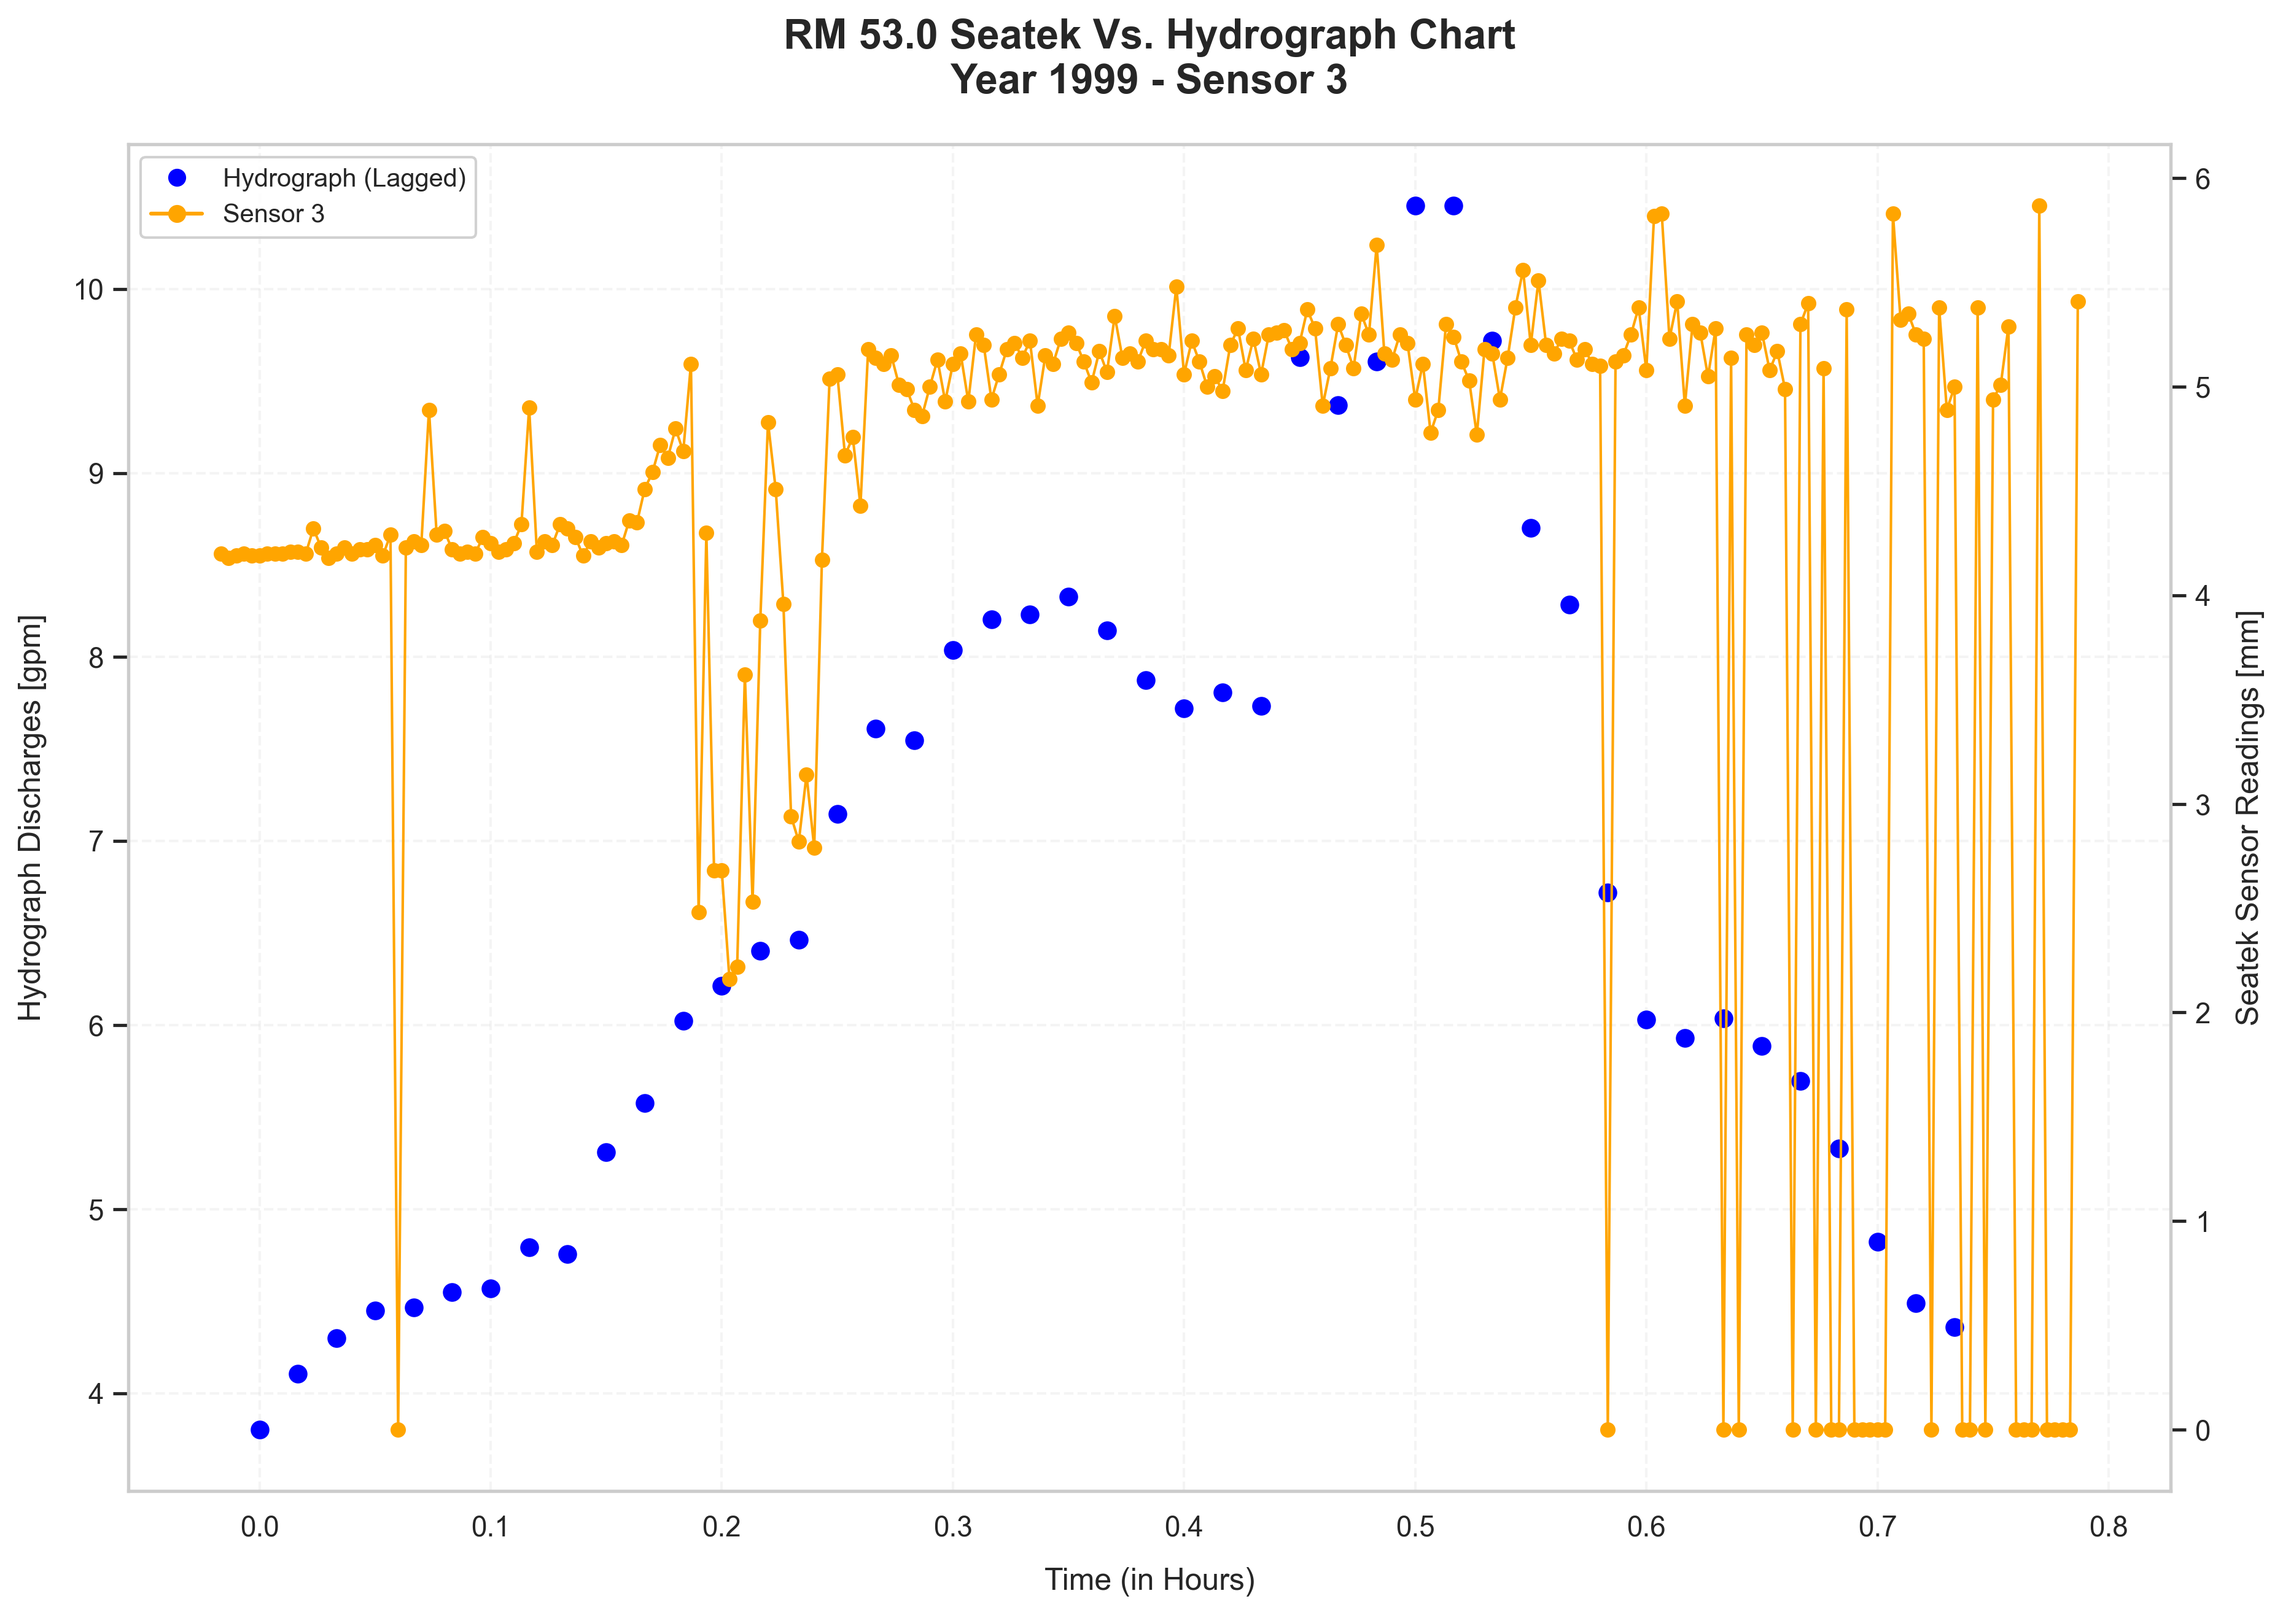
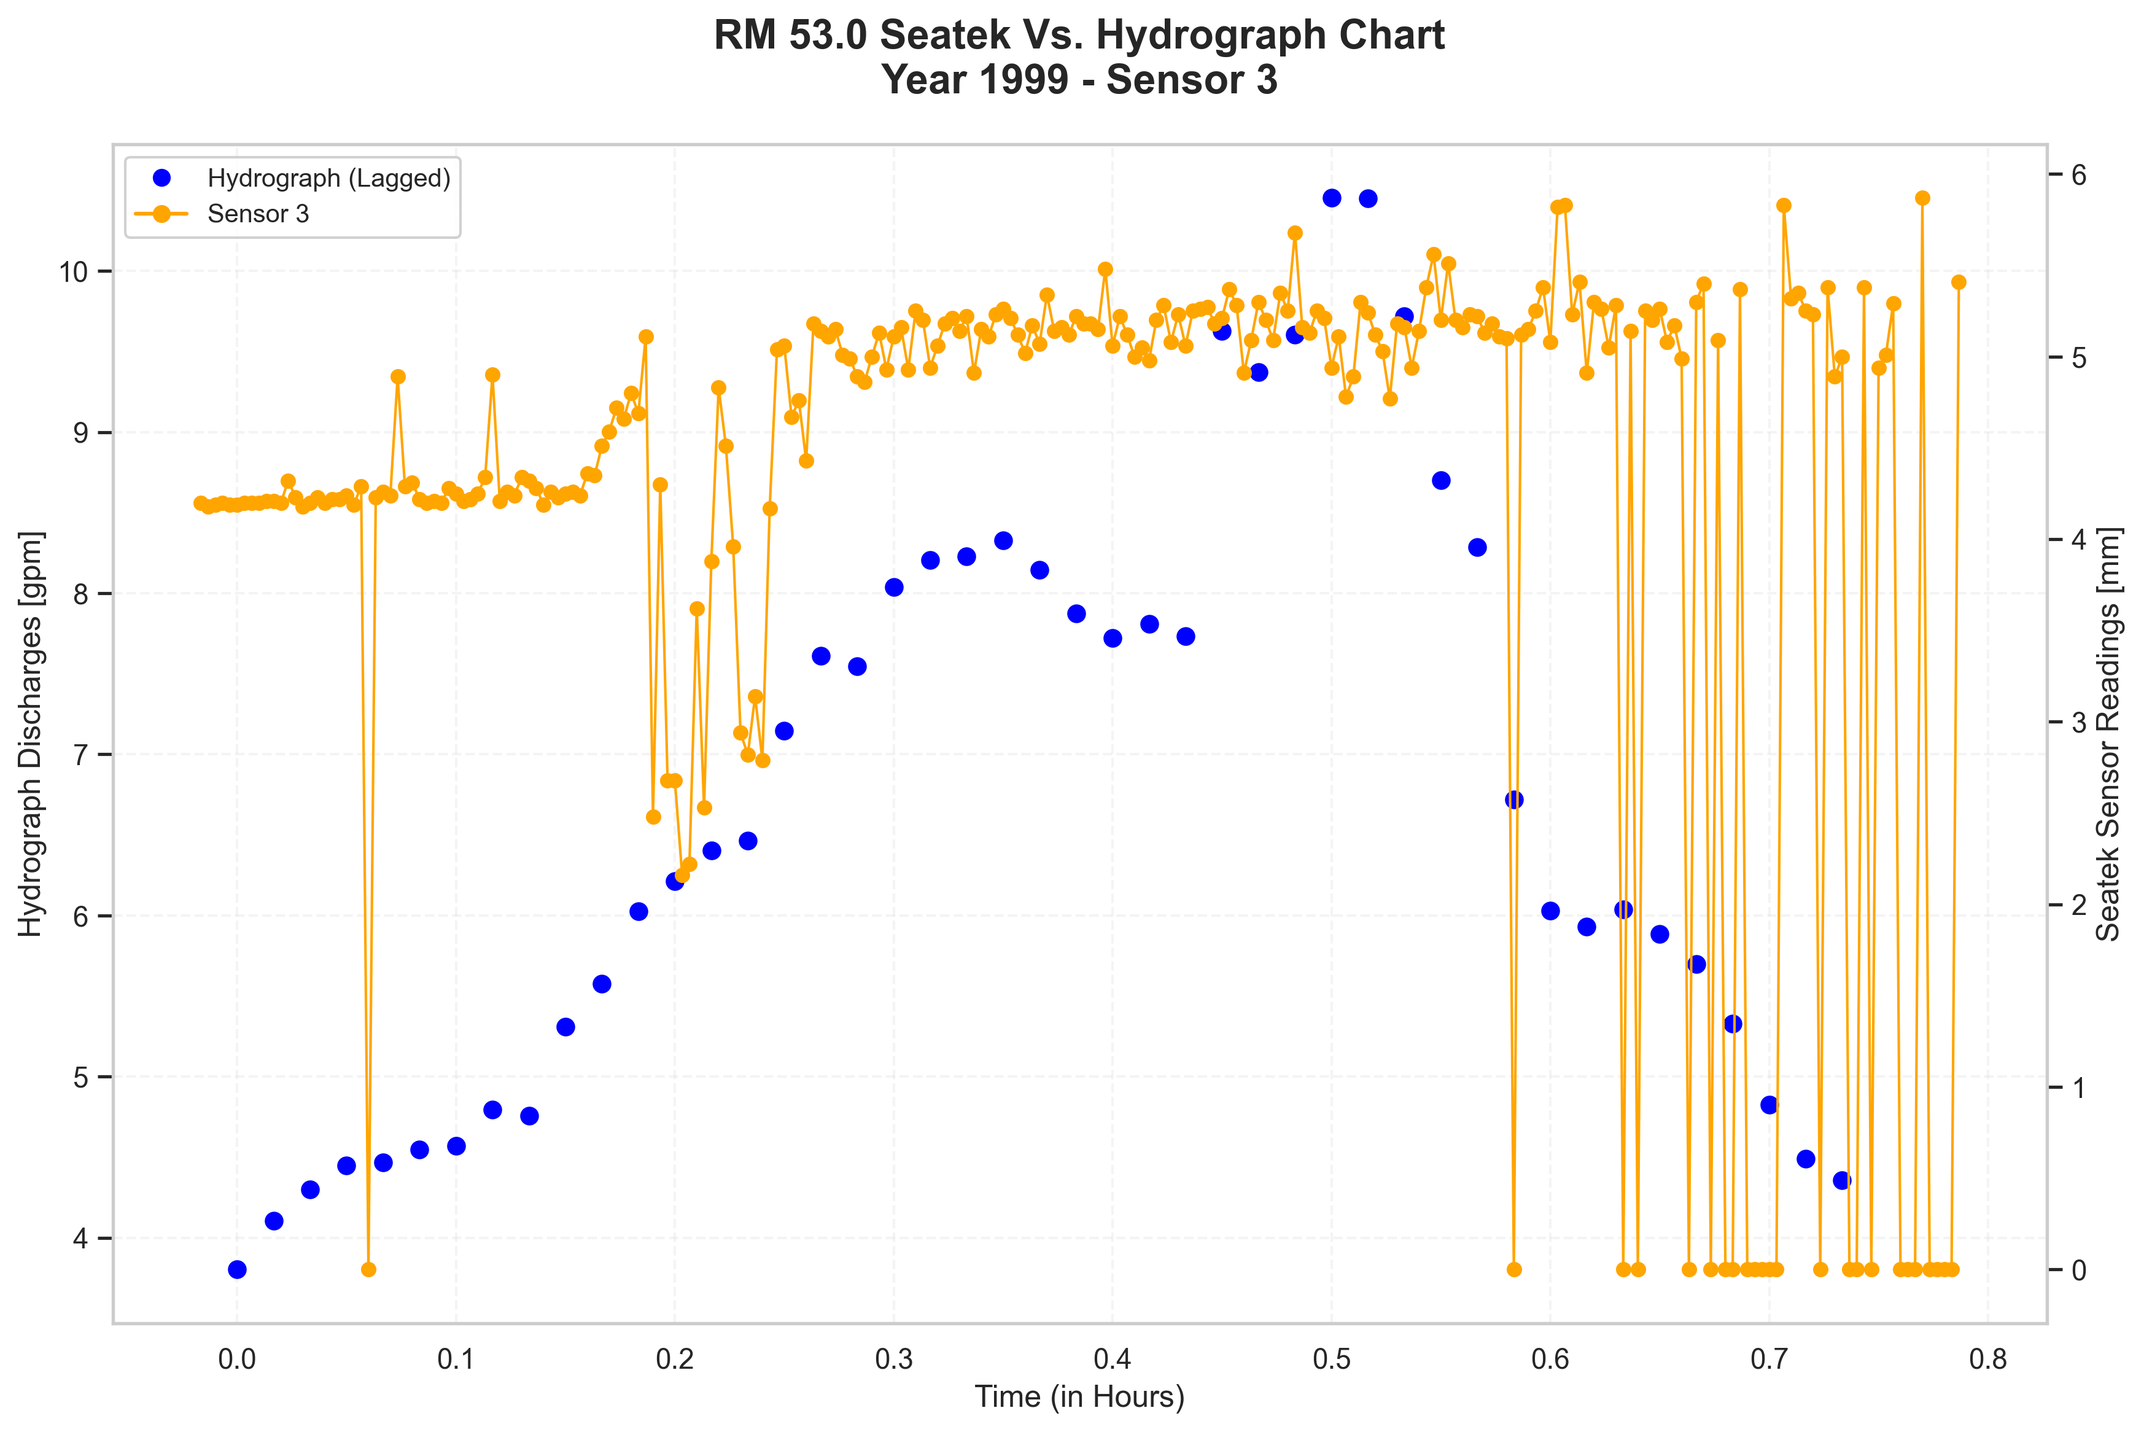
Refactor and modularize visualizer script
- Extracted year data filtering and validation into separate functions.
- Modularized plot setup, hydrograph plotting, sensor data plotting, and plot finalization.
- Improved readability and maintainability of the code.

diff --git a/scripts/updated_visualizer.py b/scripts/updated_visualizer.py
@@ -10,105 +10,94 @@ Functions:
         Main function that loads the summary data, iterates through each row, and generates plots for each river mile (RM) and year range specified in the summary.
 
 Usage:
-    Run the script directly to generate the charts.
+    Run the script directly to generate the chart
+    
+    # Import necessary libraries
+import os
+import logging
+from pathlib import Path
+import matplotlib.pyplot as plt
+import seaborn as sns
+import pandas as pd
+from matplotlib.lines import Line2Ds.
 """
 
+
 import os
+import logging
+from pathlib import Path
 import matplotlib.pyplot as plt
-import pandas as pd
 import seaborn as sns
+import pandas as pd
 from matplotlib.lines import Line2D
 
 def process_rm_data(rm_data, rm, year, sensor):
-	# Filter data for the specific year
-	year_data = rm_data[rm_data["Year"] == year].copy()
-	
-	if year_data.empty:
-		print(f"No data for RM {rm}, Year {year}. Skipping chart generation.")
-		return
-	
-	if not any(pd.notna(year_data["Hydrograph_(Lagged)"])) and not any(pd.notna(year_data[sensor])):
-		print(f"No valid hydrograph or sensor data for RM {rm}, Year {year}. Skipping.")
-		return
-	
-	# Set style and figure size (reduced width)
-	sns.set_theme(style="whitegrid")
-	fig, ax1 = plt.subplots(figsize=(14, 8))  # Reduced width to minimize white space
-	fig.patch.set_facecolor('white')  # White background
-	
-	# Use tight layout to minimize unnecessary padding
-	plt.tight_layout(rect=(0, 0, 0.85, 1))  # Adjust the right side for legend without excessive white space
-	
-	time_hours = year_data["Time_(Seconds)"] / 3600
-	
-	# Plot hydrograph data (blue points)
-	mask_hydro = pd.notna(year_data["Hydrograph_(Lagged)"])
-	
-	if any(mask_hydro):
-		ax1.scatter(time_hours[mask_hydro],
-		            year_data["Hydrograph_(Lagged)"][mask_hydro],
-		            color='blue',
-		            label='Hydrograph (Lagged)',
-		            s=40,
-		            zorder=3)
-	
-	ax1.set_xlabel('Time (in Hours)', fontsize=12, labelpad=10)
-	ax1.set_ylabel('Hydrograph Discharges [gpm]', fontsize=12, labelpad=10)
-	ax1.grid(True, alpha=0.2, linestyle='--')
-	
-	# Create second y-axis for sensor data
-	ax2 = ax1.twinx()
-	
-	# Plot sensor data (orange lines and points)
-	mask_sensor = pd.notna(year_data[sensor])
-	
-	if any(mask_sensor):
-		ax2.plot(time_hours[mask_sensor],
-		         year_data[sensor][mask_sensor],
-		         color='orange',
-		         label=sensor.replace('_', ' '),
-		         linewidth=1.0,
-		         linestyle='-',
-		         zorder=1)
-		
-		ax2.scatter(time_hours[mask_sensor],
-		            year_data[sensor][mask_sensor],
-		            color='orange',
-		            s=25,
-		            zorder=2)
-		
-		ax2.set_ylabel('Seatek Sensor Readings [mm]', fontsize=12, labelpad=10)
-		ax2.grid(False)
-	
-	# Title with padding
-	plt.title(f"RM {rm} Seatek Vs. Hydrograph Chart\nYear {year} - {sensor.replace('_', ' ')}",
-	          fontsize=16, fontweight='bold', pad=20)
-	
-	# Legend elements (cleaned up)
-	legend_elements = [
-			Line2D([0], [0], color='blue', linestyle='None', marker='o',
-			       label='Hydrograph (Lagged)', markersize=6),
-			
-			# Updated sensor entry to include both line and marker
-			Line2D([0], [0], color='orange', linestyle='-', marker='o',
-			       label=sensor.replace('_', ' '), markersize=6)
-			]
-	
-	# Move legend to the top-left corner of the plot
-	ax1.legend(handles=legend_elements,
-	           loc="upper left",  # Positioning the legend in the upper-left corner
-	           fontsize=10,
-	           ncol=1,
-	           framealpha=0.9)
-	
-	# Save plot
-	output_dir = "output"
-	os.makedirs(output_dir, exist_ok=True)
-	
-	plt.savefig(os.path.join(output_dir, f"RM_{rm}_Year_{year}_{sensor}.png"),
-	            dpi=300, bbox_inches="tight")
-	
-	plt.close()
+    year_data = filter_year_data(rm_data, year)
+    if year_data.empty or not has_valid_data(year_data, sensor):
+        return
+    
+    fig, ax1 = setup_plot()
+    time_hours = year_data["Time_(Seconds)"] / 3600
+    
+    plot_hydrograph(ax1, year_data, time_hours)
+    ax2 = plot_sensor_data(ax1, year_data, time_hours, sensor)
+    
+    finalize_plot(ax1, ax2, rm, year, sensor)
+    save_plot(rm, year, sensor)
+
+def filter_year_data(rm_data, year):
+    return rm_data[rm_data["Year"] == year].copy()
+
+def has_valid_data(year_data, sensor):
+    if not any(pd.notna(year_data["Hydrograph_(Lagged)"])) and not any(pd.notna(year_data[sensor])):
+        logging.info(f"No valid hydrograph or sensor data. Skipping.")
+        return False
+    return True
+
+def setup_plot():
+    sns.set_theme(style="whitegrid")
+    fig, ax1 = plt.subplots(figsize=(14, 8))
+    fig.patch.set_facecolor('white')
+    plt.subplots_adjust(left=0.1, right=0.85, top=0.9, bottom=0.1)
+    return fig, ax1
+
+def plot_hydrograph(ax1, year_data, time_hours):
+    mask_hydro = pd.notna(year_data["Hydrograph_(Lagged)"])
+    if any(mask_hydro):
+        ax1.scatter(time_hours[mask_hydro],
+                    year_data["Hydrograph_(Lagged)"][mask_hydro],
+                    color='blue', label='Hydrograph (Lagged)', s=40, zorder=3)
+    ax1.set(xlabel='Time (in Hours)', ylabel='Hydrograph Discharges [gpm]')
+    ax1.grid(True, alpha=0.2, linestyle='--')
+
+def plot_sensor_data(ax1, year_data, time_hours, sensor):
+    ax2 = ax1.twinx()
+    mask_sensor = pd.notna(year_data[sensor])
+    if any(mask_sensor):
+        ax2.plot(time_hours[mask_sensor],
+                 year_data[sensor][mask_sensor],
+                 color='orange', label=sensor.replace('_', ' '), linewidth=1.0, linestyle='-', zorder=1)
+        ax2.scatter(time_hours[mask_sensor],
+                    year_data[sensor][mask_sensor],
+                    color='orange', s=25, zorder=2)
+        ax2.set_ylabel('Seatek Sensor Readings [mm]')
+        ax2.grid(False)
+    return ax2
+
+def finalize_plot(ax1, ax2, rm, year, sensor):
+    plt.title(f"RM {rm} Seatek Vs. Hydrograph Chart\nYear {year} - {sensor.replace('_', ' ')}",
+              fontsize=16, fontweight='bold', pad=20)
+    legend_elements = [
+        Line2D([0], [0], color='blue', linestyle='None', marker='o', label='Hydrograph (Lagged)', markersize=6),
+        Line2D([0], [0], color='orange', linestyle='-', marker='o', label=sensor.replace('_', ' '), markersize=6)
+    ]
+    ax1.legend(handles=legend_elements, loc="upper left", fontsize=10, ncol=1, framealpha=0.9)
+
+def save_plot(rm, year, sensor):
+    output_dir = Path("output")
+    output_dir.mkdir(exist_ok=True)
+    with plt.savefig(output_dir / f"RM_{rm}_Year_{year}_{sensor}.png", dpi=300, bbox_inches="tight"):
+        pass
 
 def main():
 	os.makedirs("output", exist_ok=True)
@@ -171,3 +160,4 @@ def main():
 
 if __name__ == "__main__":
 	main()
+
